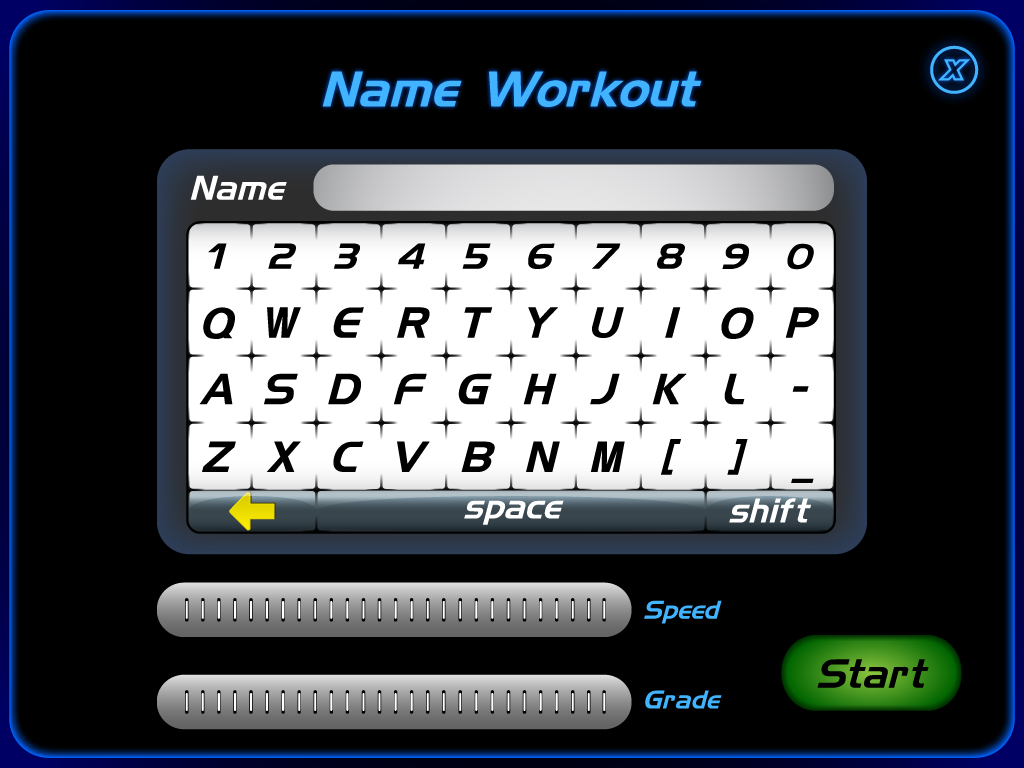
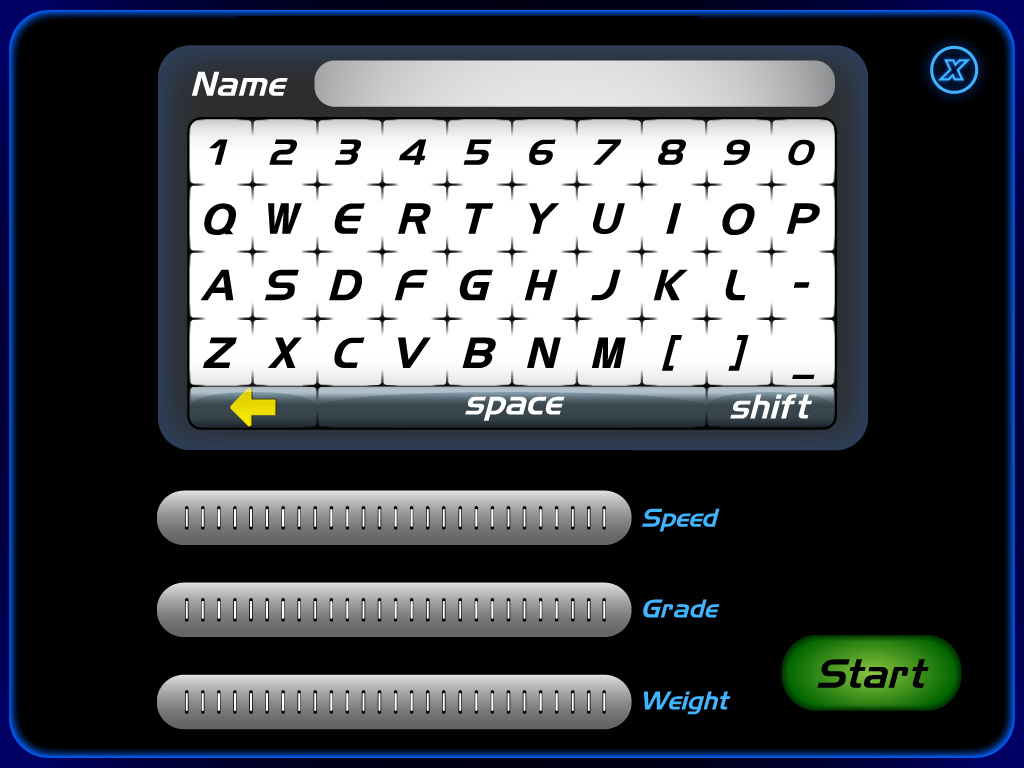
Added weight to saved workouts and the add workout screen.

diff --git a/TreadmillUI/trunk/APP/workout.cpp b/TreadmillUI/trunk/APP/workout.cpp
@@ -266,6 +266,8 @@ void Workout::save(){
     workoutFile->open(QFile::ReadWrite);
     QTextStream stream(workoutFile);
 
+    stream << "weight" << "\t" << _weight << "\n";
+
     for(int i=0; i<steps->size(); i++){
         Step* step = steps->at(i);
 
@@ -301,18 +303,23 @@ Workout* Workout::load(QString workoutName){
         QStringList args = line.split('\t');
 
         QString stepType = args.at(0);
+        QString stepValue = args.at(1);
 
         if(stepType.compare("wait") == 0){
-            long waitTime = QLocale(QLocale::C).toLongLong(args.at(1));
+            long waitTime = QLocale(QLocale::C).toLongLong(stepValue);
             steps->append(new WaitStep(waitTime));
         }
         else if(stepType.compare("grade") == 0){
-            float grade = QLocale(QLocale::C).toFloat(args.at(1));
+            float grade = QLocale(QLocale::C).toFloat(stepValue);
             steps->append(new ChangeGradeStep(grade));
         }
         else if(stepType.compare("speed") == 0){
-            float speed = QLocale(QLocale::C).toFloat(args.at(1));
+            float speed = QLocale(QLocale::C).toFloat(stepValue);
             steps->append(new ChangeSpeedStep(speed));
+        }
+        else if(stepType.compare("weight") == 0){
+            int weight = QLocale(QLocale::C).toInt(stepValue);
+            workout->_weight = weight;
         }
     }
 

diff --git a/TreadmillUI/trunk/APP/newworkoutscreen.cpp b/TreadmillUI/trunk/APP/newworkoutscreen.cpp
@@ -15,12 +15,14 @@ NewWorkoutScreen::NewWorkoutScreen(QWidget *parent) :
     ,keyboardWidget(this)
     ,speedSlider(this)
     ,gradeSlider(this)
+    ,weightSlider(this)
 {
     ui->setupUi(this);
 
-    keyboardWidget.move(157,148);
-    speedSlider.move(122, 585);
-    gradeSlider.move(122, 677);
+    keyboardWidget.move(157,45);
+    speedSlider.move(122, 493);
+    gradeSlider.move(122, 585);
+    weightSlider.move(122, 677);
 
     ui->backgroundLabel->lower();
 }
@@ -40,9 +42,8 @@ void NewWorkoutScreen::on_invisibleButton_6_pressed()
     QString workoutName = keyboardWidget.text();
 
     if( workoutName.length() > 0){
-        QMessageBox::critical(this, "", "Using a weight of 0.  We need to add a way of detecting the user's weight.");
 
-        Workout* workout = new Workout(workoutName, 0);
+        Workout* workout = new Workout(workoutName, weightSlider.value);
         workout->steps->append(new ChangeSpeedStep(speedSlider.value));
         workout->steps->append(new ChangeGradeStep(gradeSlider.value));
 

diff --git a/TreadmillUI/trunk/APP/mainscreen.cpp b/TreadmillUI/trunk/APP/mainscreen.cpp
@@ -192,7 +192,12 @@ void MainScreen::startWorkout(Workout* workout, bool recordWorkout){
 
     updateDisplay();
 
-    Preferences::setCurrentState(ON_OFF_MASK);
+    if(Preferences::isTestingMode()){
+        Screens::show(this);
+    }
+    else{
+        Preferences::setCurrentState(ON_OFF_MASK);
+    }
 }
 
 void MainScreen::processNextWorkoutStep() {
@@ -467,7 +472,7 @@ void MainScreen::calculateCalories(int speed, int grade, long timeDifference){
 
 
       calories+=calO2*weight*3.5f*(calTime/(float)1000.0);// calTime/1000
-    qDebug()<< "calTime: " <<calTime/(float)1000.0 ;
+//    qDebug()<< "calTime: " <<calTime/(float)1000.0 ;
 
        ui->caloriesLabel->setText(QString("%1").arg((int)calories));
 }

diff --git a/TreadmillUI/trunk/APP/newworkoutscreen.h b/TreadmillUI/trunk/APP/newworkoutscreen.h
@@ -6,6 +6,7 @@
 #include "keyboardwidget.h"
 #include "gradesliderwidget.h"
 #include "speedsliderwidget.h"
+#include "weightsliderwidget.h"
 
 namespace Ui {
     class NewWorkoutScreen;
@@ -24,6 +25,7 @@ private:
     KeyboardWidget keyboardWidget;
     SpeedSliderWidget speedSlider;
     GradeSliderWidget gradeSlider;
+    WeightSliderWidget weightSlider;
 
 private slots:
     void on_invisibleButton_7_clicked();

diff --git a/TreadmillUI/trunk/APP/myworkoutsscreen.cpp b/TreadmillUI/trunk/APP/myworkoutsscreen.cpp
@@ -94,9 +94,8 @@ void MyWorkoutsScreen::workoutSelected(){
     InvisibleButton* button = (InvisibleButton*)sender();
     QString workoutName = button->accessibleName();
 
-    QMessageBox::critical(this, "", "Using a weight of 0.  We need to add a way of detecting the user's weight.");
-
     Workout* workout = Workout::load(workoutName);
+
     MainScreen::getMainScreen()->startWorkout(workout);
     close();
 }

diff --git a/TreadmillUI/trunk/APP/seriallistenerthread.cpp b/TreadmillUI/trunk/APP/seriallistenerthread.cpp
@@ -1,10 +1,11 @@
 #include "seriallistenerthread.h"
 
-#include "qdebug.h"
+#include <QDebug>
+#include <QApplication>
+
 #include "preferences.h"
 #include "qextserialport.h"
 #include "upperboardevent.h"
-#include "QApplication"
 #include "utils.h"
 #include "calibrationscreen.h"
 #include "settingsscreen.h"

diff --git a/TreadmillUI/trunk/APP/speedsliderwidget.cpp b/TreadmillUI/trunk/APP/speedsliderwidget.cpp
@@ -2,6 +2,6 @@
 #include "utils.h"
 
 SpeedSliderWidget::SpeedSliderWidget(QWidget *parent) :
-        SliderWidget(parent, 1, (Utils::getMAX_SPEED()/10))
+        SliderWidget(parent, 1, (Utils::getMAX_SPEED()))
 {
 }

diff --git a/TreadmillUI/trunk/APP/gradesliderwidget.cpp b/TreadmillUI/trunk/APP/gradesliderwidget.cpp
@@ -2,6 +2,6 @@
 #include "utils.h"
 
 GradeSliderWidget::GradeSliderWidget(QWidget *parent) :
-        SliderWidget(parent, 1, (MAX_GRADE/10))
+        SliderWidget(parent, 1, (MAX_GRADE))
 {
 }

diff --git a/TreadmillUI/trunk/APP/weightsliderwidget.cpp b/TreadmillUI/trunk/APP/weightsliderwidget.cpp
@@ -1,6 +1,6 @@
 #include "weightsliderwidget.h"
 
 WeightSliderWidget::WeightSliderWidget(QWidget *parent) :
-    SliderWidget(parent, 70, 600)
+    SliderWidget(parent, 70, 450)
 {
 }
